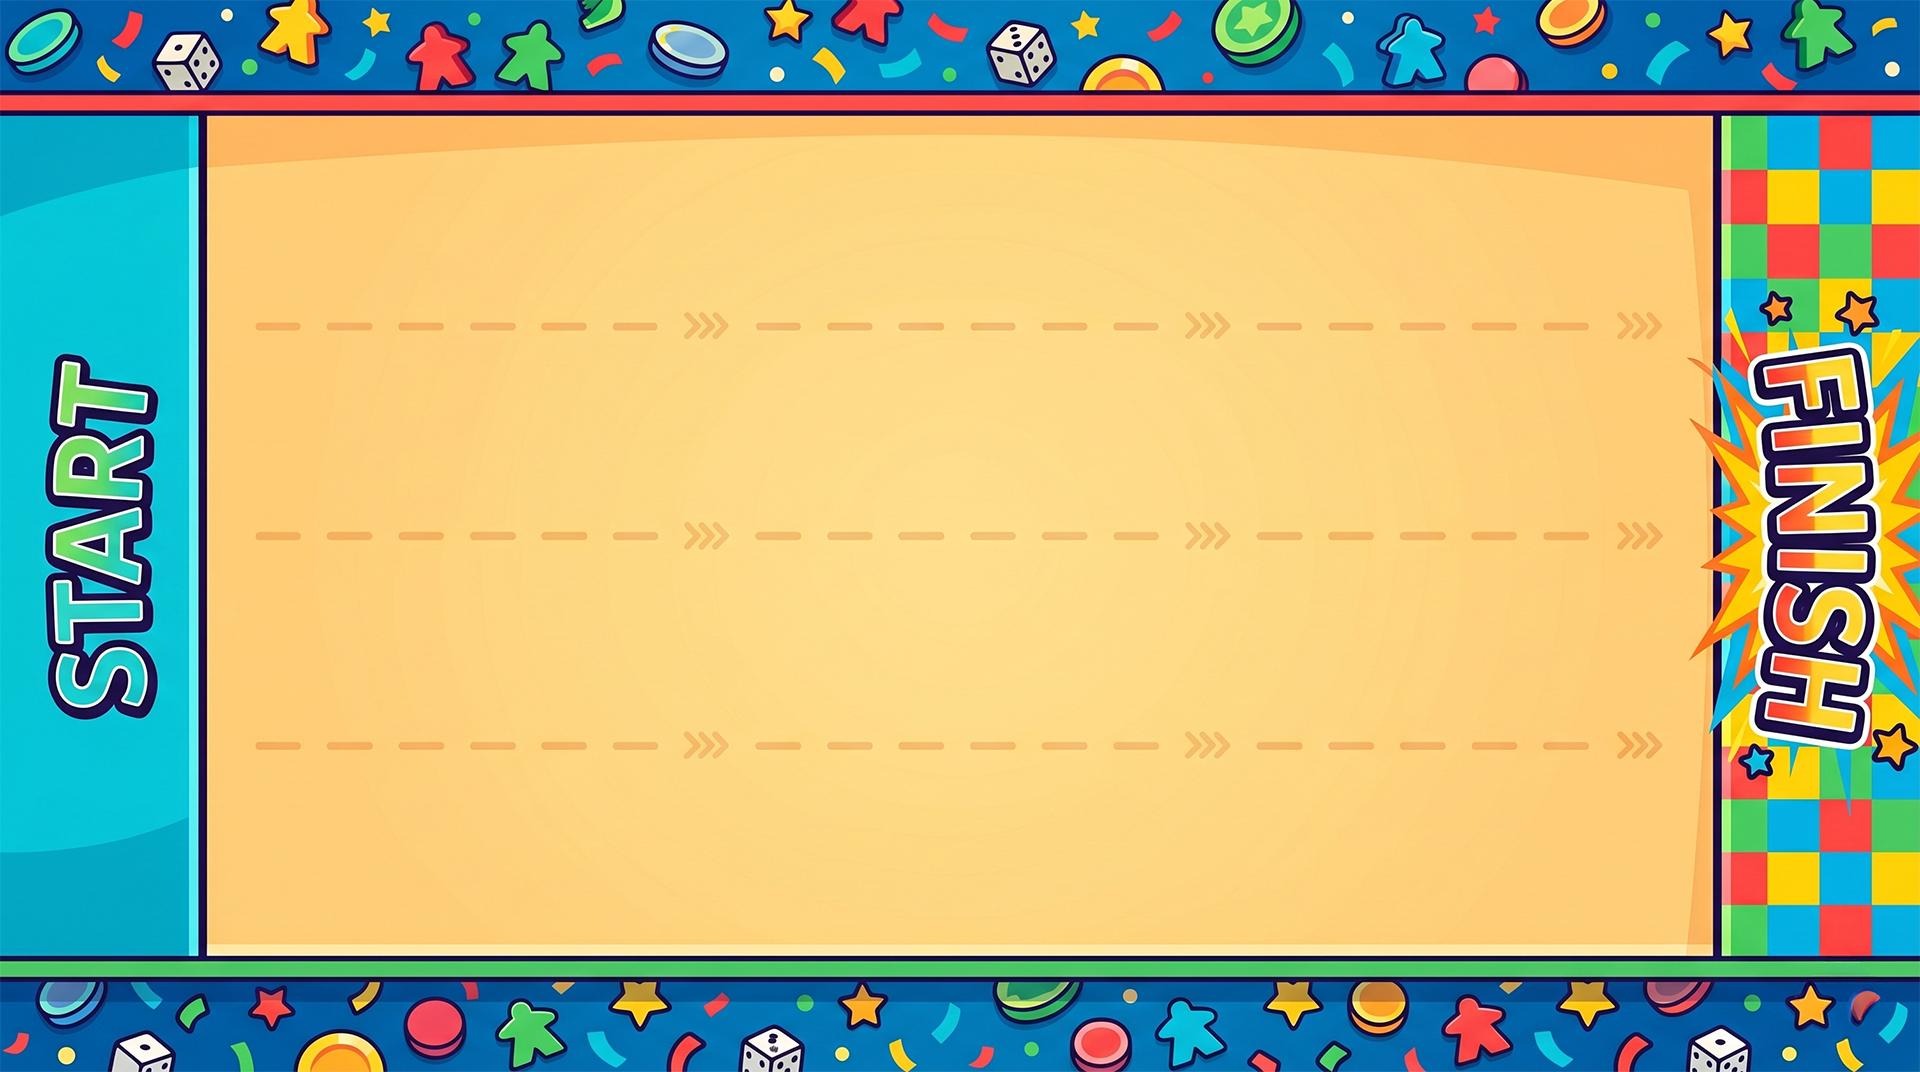
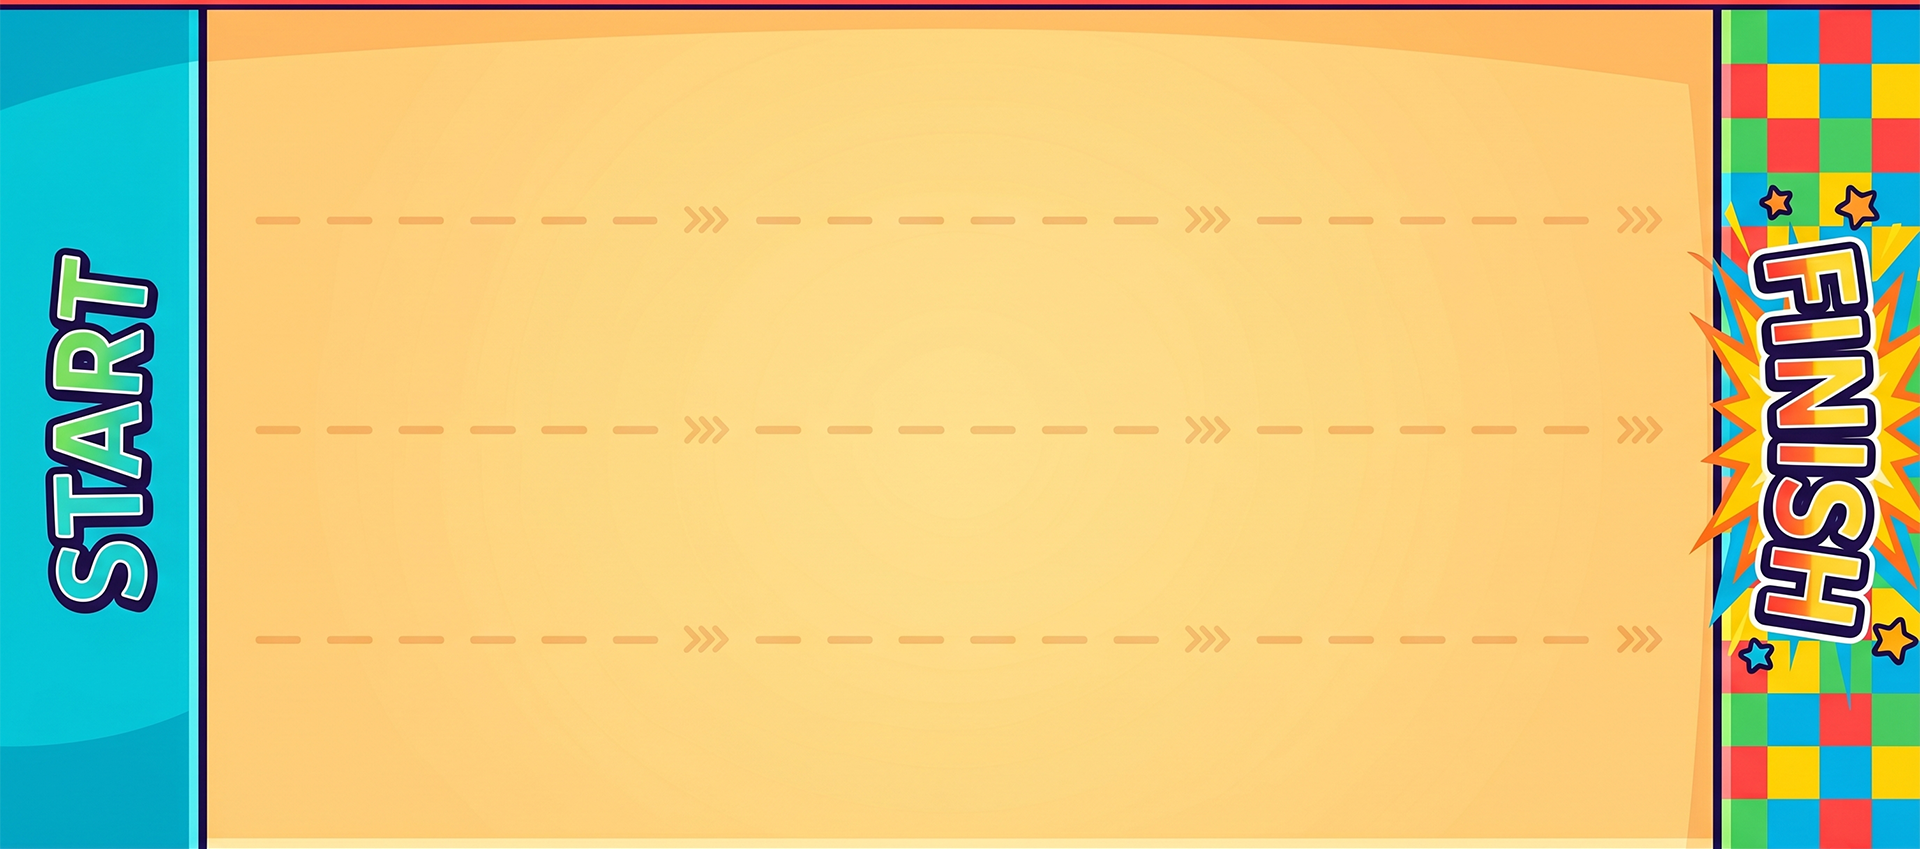
Fix board background crop and enable sprite drop-shadow
- Crop board.png to remove top/bottom blue decorative bands (y=106-954)
  so meeples only appear on the tan racing surface, not the border art
- Remove overflow:hidden from .football-field and .board-field .lane-racer
  so CSS filter:drop-shadow on finished sprites is no longer clipped
  (drop-shadow follows the character's actual pixel shape via alpha)

diff --git a/src/app/globals.css b/src/app/globals.css
@@ -363,9 +363,7 @@ a { color: inherit; text-decoration: none; }
 .football-field .lane-racer {
   background: transparent;
   border: none;
-  width: 64px;
-  height: 180px;
-  overflow: hidden;
+  overflow: visible;
   padding: 0;
   gap: 0;
   position: absolute;
@@ -408,7 +406,7 @@ a { color: inherit; text-decoration: none; }
 .board-field .lane-racer {
   background: transparent;
   border: none;
-  overflow: hidden;
+  overflow: visible;
   padding: 0;
   gap: 0;
   position: absolute;
